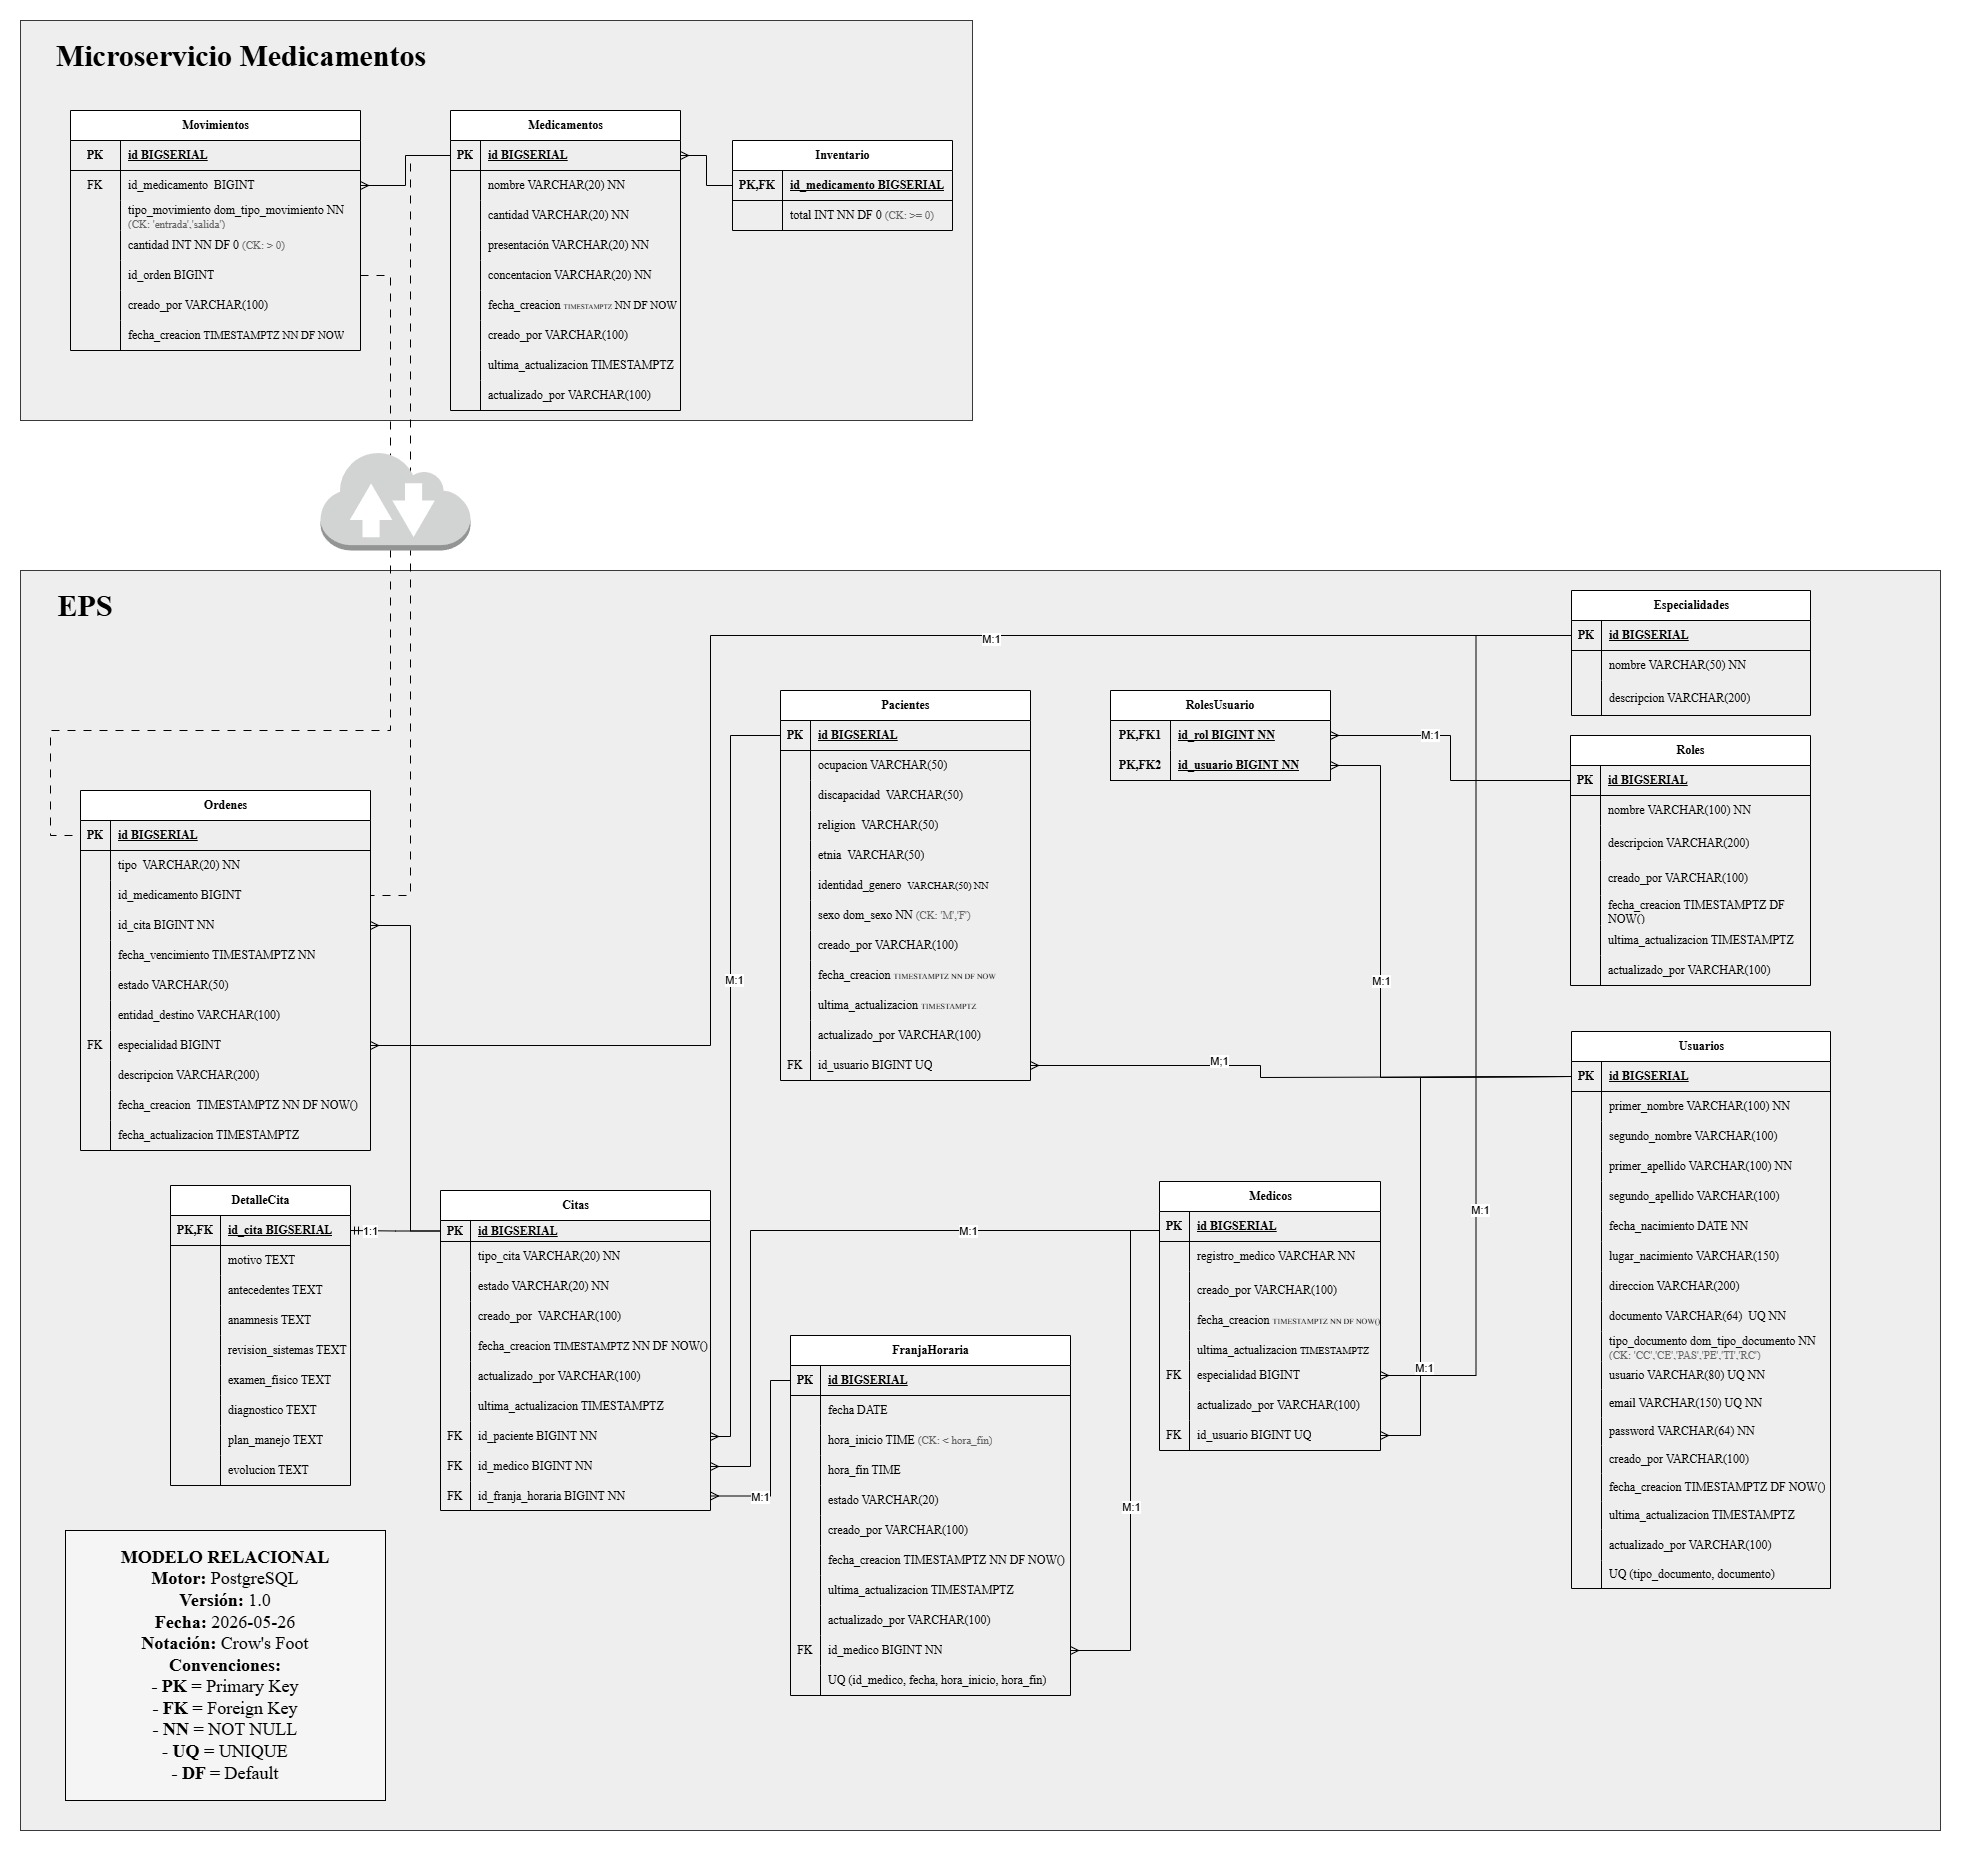
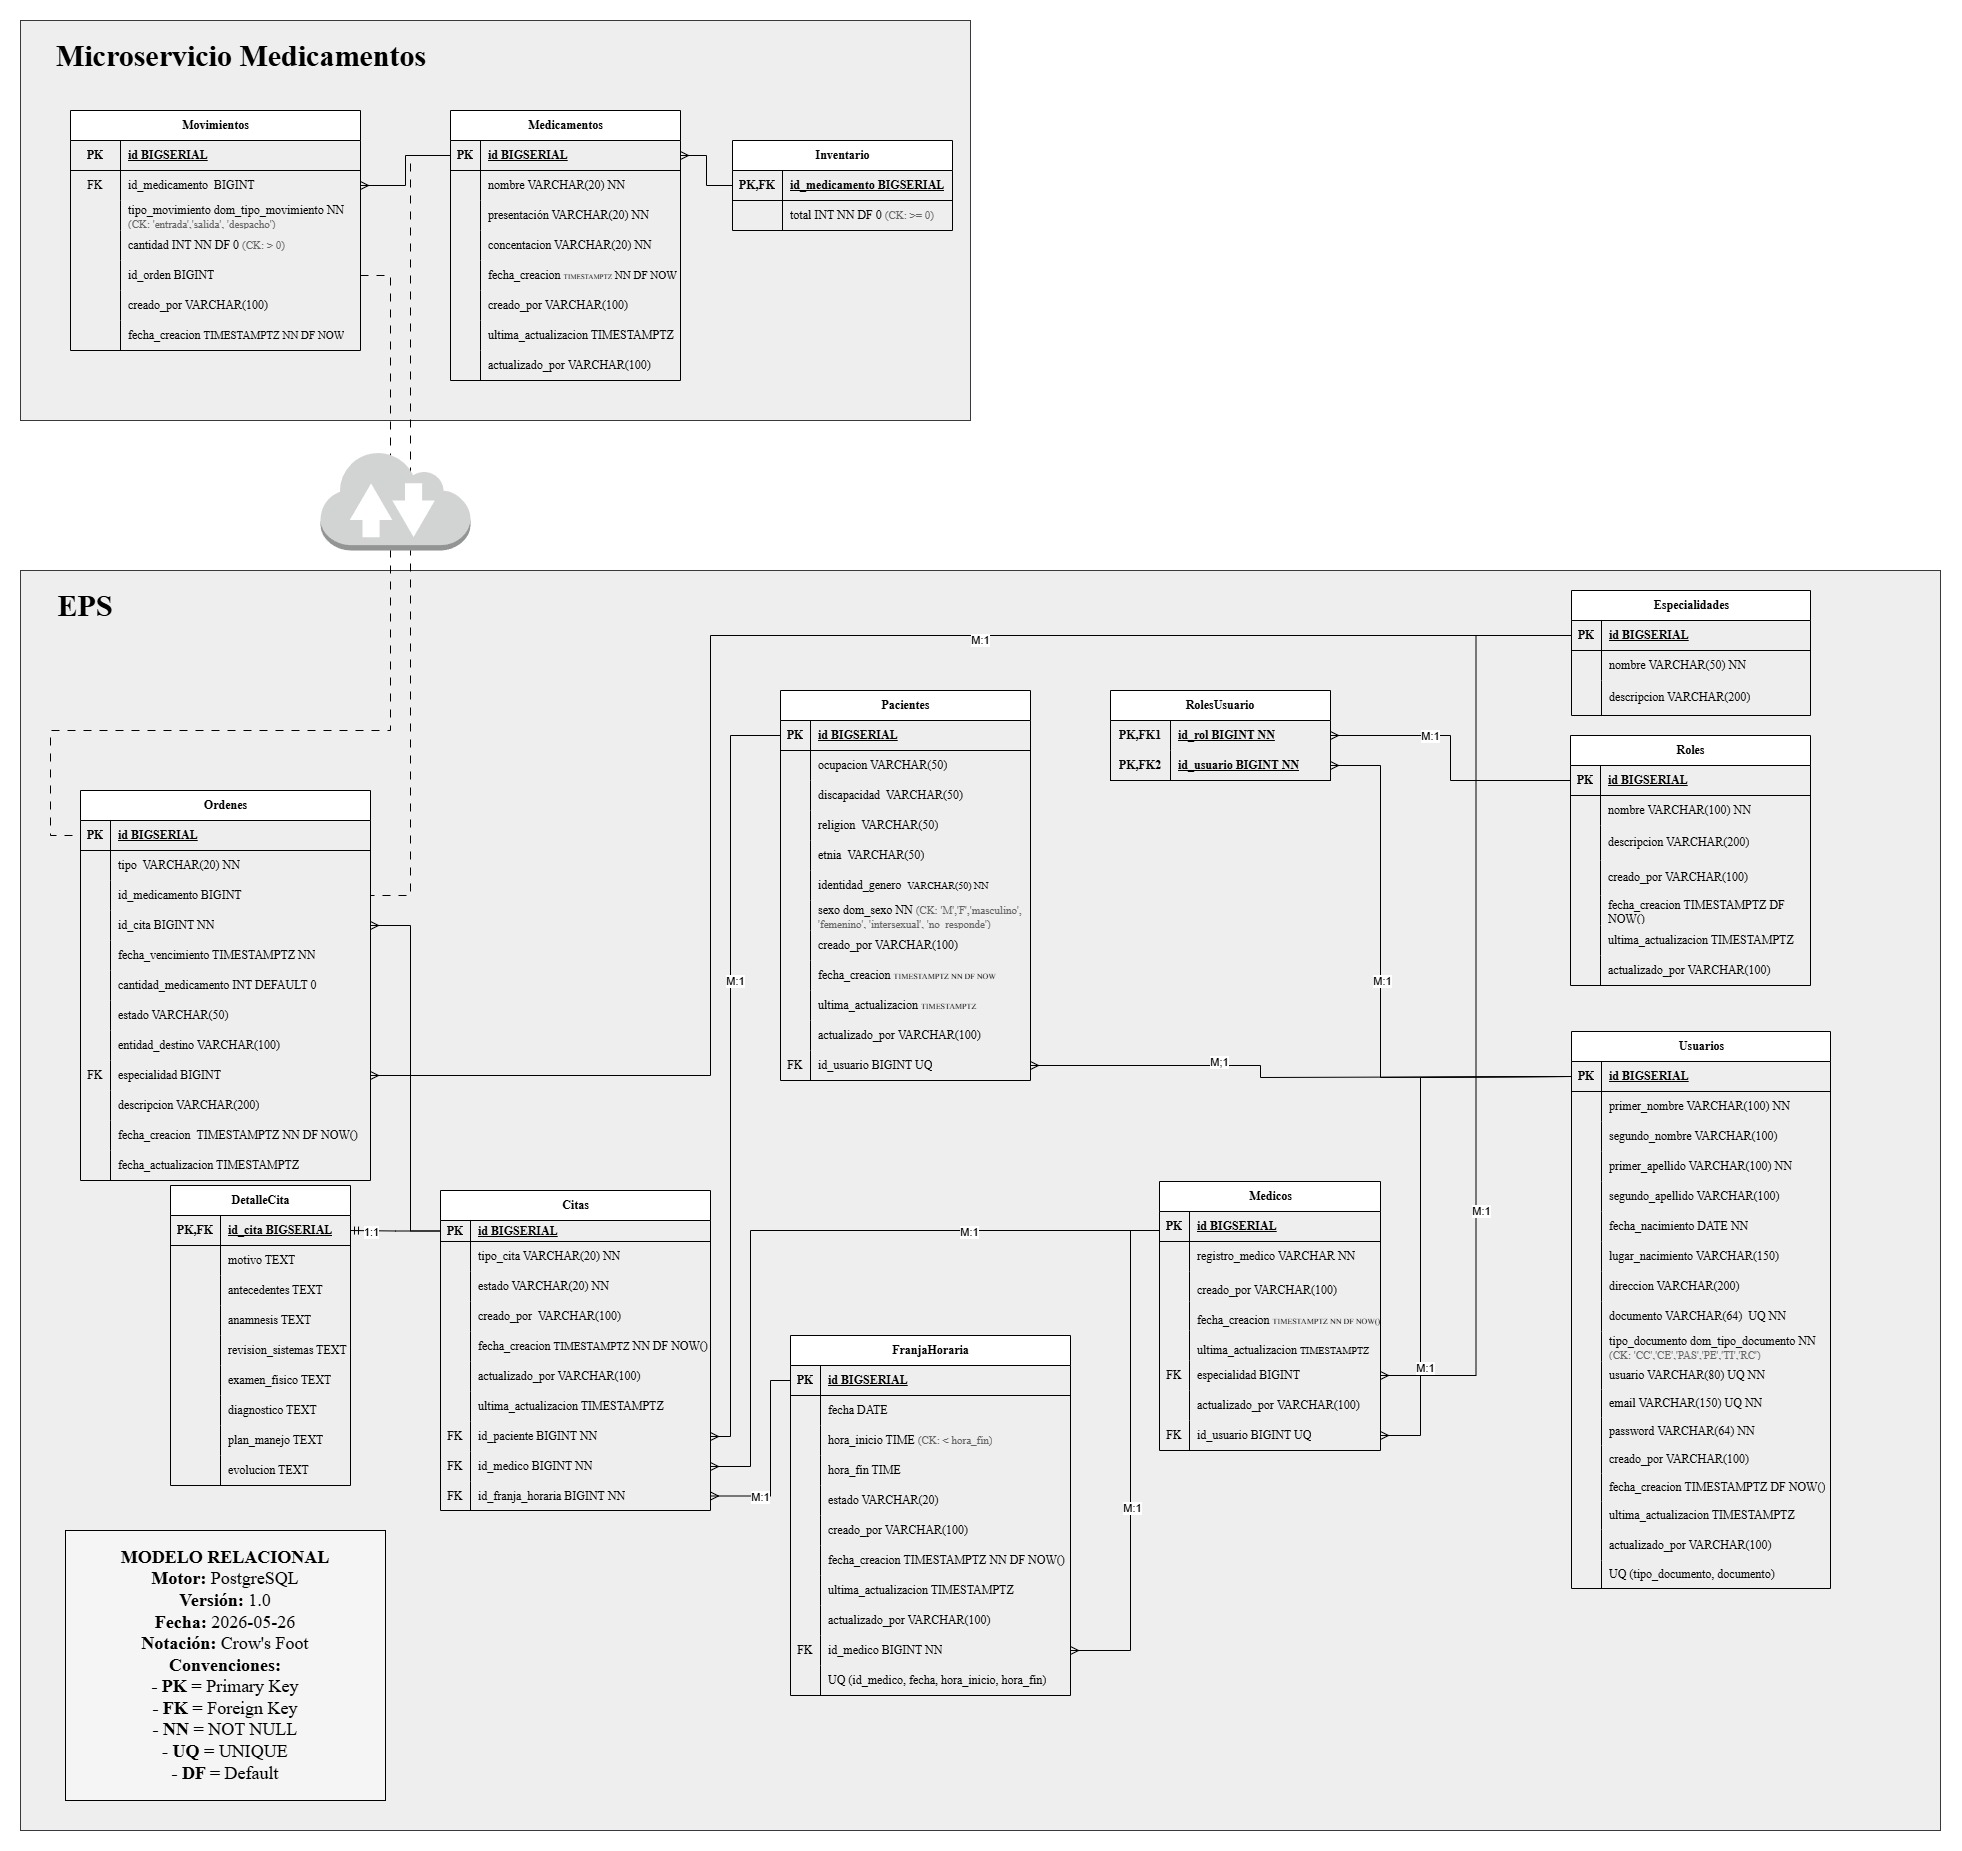
ultima versión diagramas bd

diff --git a/arquitecturas/microservicios/docs/Modelo_DDL.md b/arquitecturas/microservicios/docs/Modelo_DDL.md
@@ -15,7 +15,7 @@ CREATE DOMAIN dom_tipo_documento AS VARCHAR(30)
 CHECK (VALUE IN ('CC', 'CE', 'PAS', 'PE', 'TI', 'RC'));
 
 CREATE DOMAIN dom_tipo_movimiento AS VARCHAR(20)
-CHECK (VALUE IN ('entrada', 'salida'));
+CHECK (VALUE IN ('entrada', 'salida', 'despacho'));
 
 CREATE DOMAIN dom_sexo AS VARCHAR(15)
 CHECK (VALUE IN ('M', 'F','masculino', 'femenino', 'intersexual', 'no_responde'));
@@ -204,6 +204,7 @@ CREATE TABLE IF NOT EXISTS ordenes (
     entidad_destino VARCHAR(100),
     especialidad BIGINT,
     descripcion VARCHAR(200),
+    cantidad_medicamento INT,
     fecha_creacion TIMESTAMPTZ DEFAULT NOW(),
     fecha_actualizacion TIMESTAMPTZ,
     CONSTRAINT ordenes_id_cita_fkey
@@ -239,7 +240,6 @@ CREATE TABLE IF NOT EXISTS roles_usuario (
 CREATE TABLE IF NOT EXISTS medicamentos (
     id BIGSERIAL PRIMARY KEY,
     nombre VARCHAR(20) NOT NULL,
-    cantidad VARCHAR(20) NOT NULL,
     presentacion VARCHAR(20) NOT NULL,
     concentracion VARCHAR(20) NOT NULL,
     fecha_creacion TIMESTAMPTZ DEFAULT NOW(),
@@ -311,7 +311,6 @@ Se ha implementado un sistema de auditoría basado en triggers para todas las ta
     CREATE TABLE IF NOT EXISTS auditoria_medicamentos (
     id_medicamento BIGINT,
     nombre VARCHAR(20),
-    cantidad VARCHAR(20),
     presentacion VARCHAR(20),
     concentracion VARCHAR(20),
     momento TIMESTAMPTZ DEFAULT NOW(),